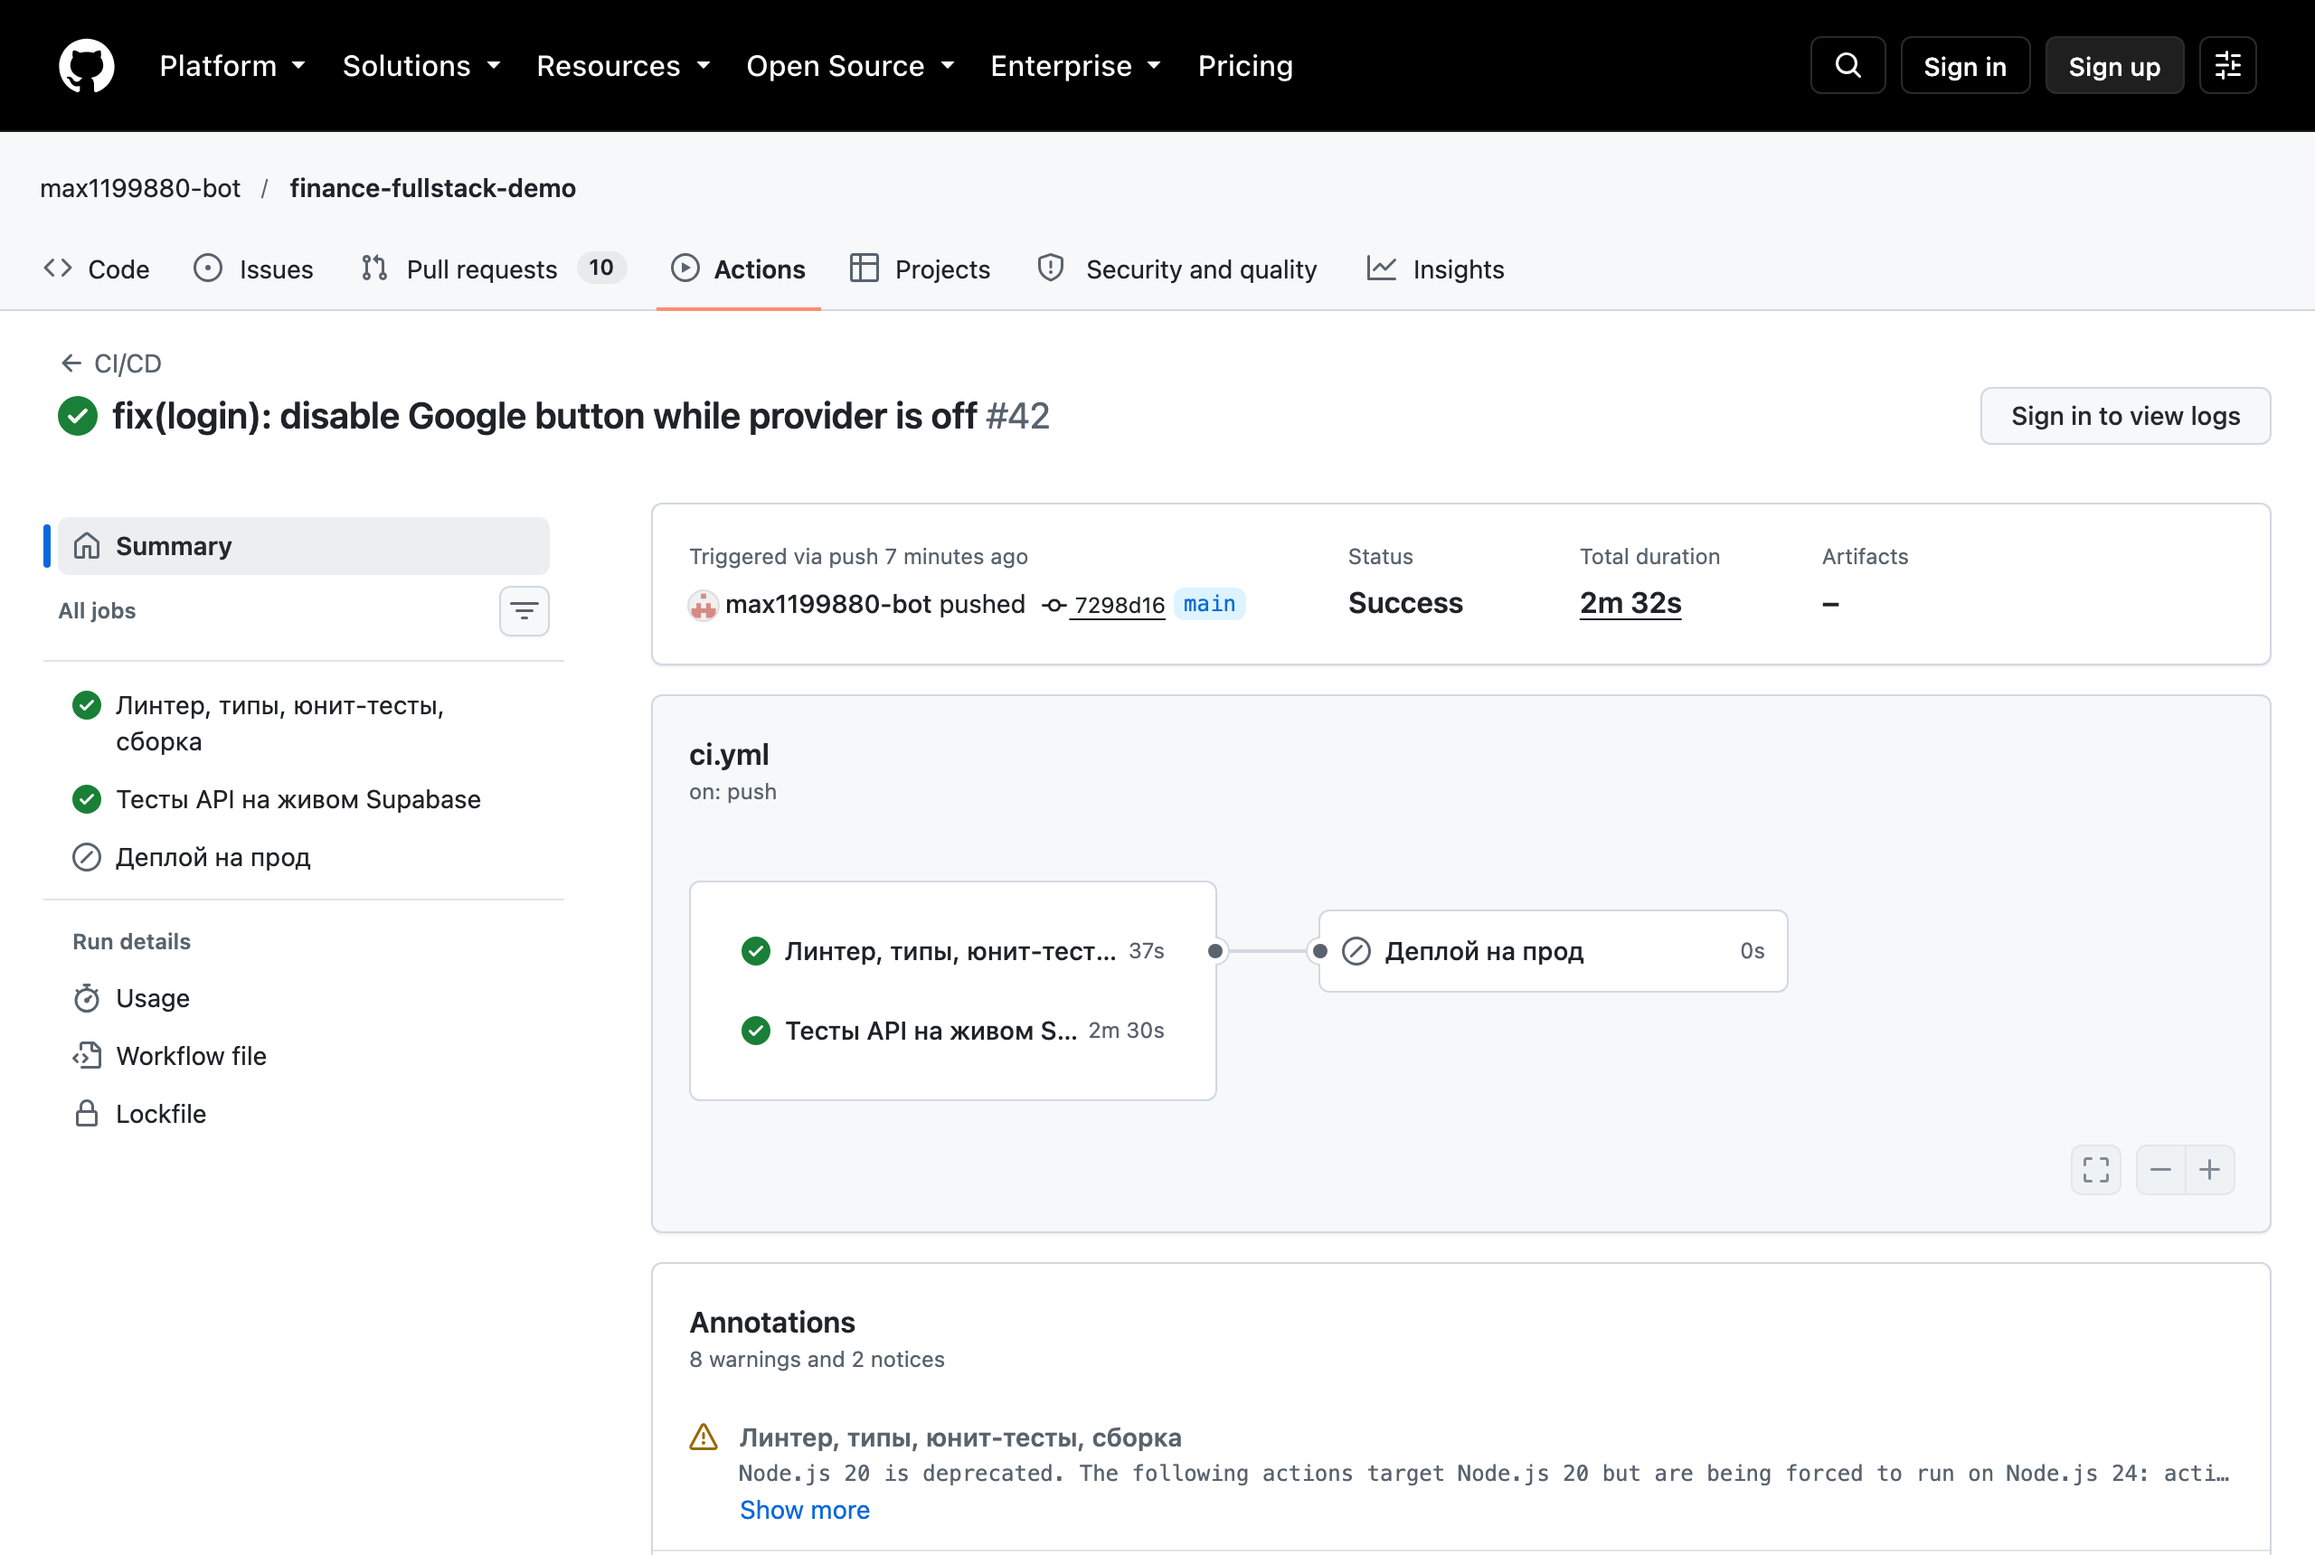
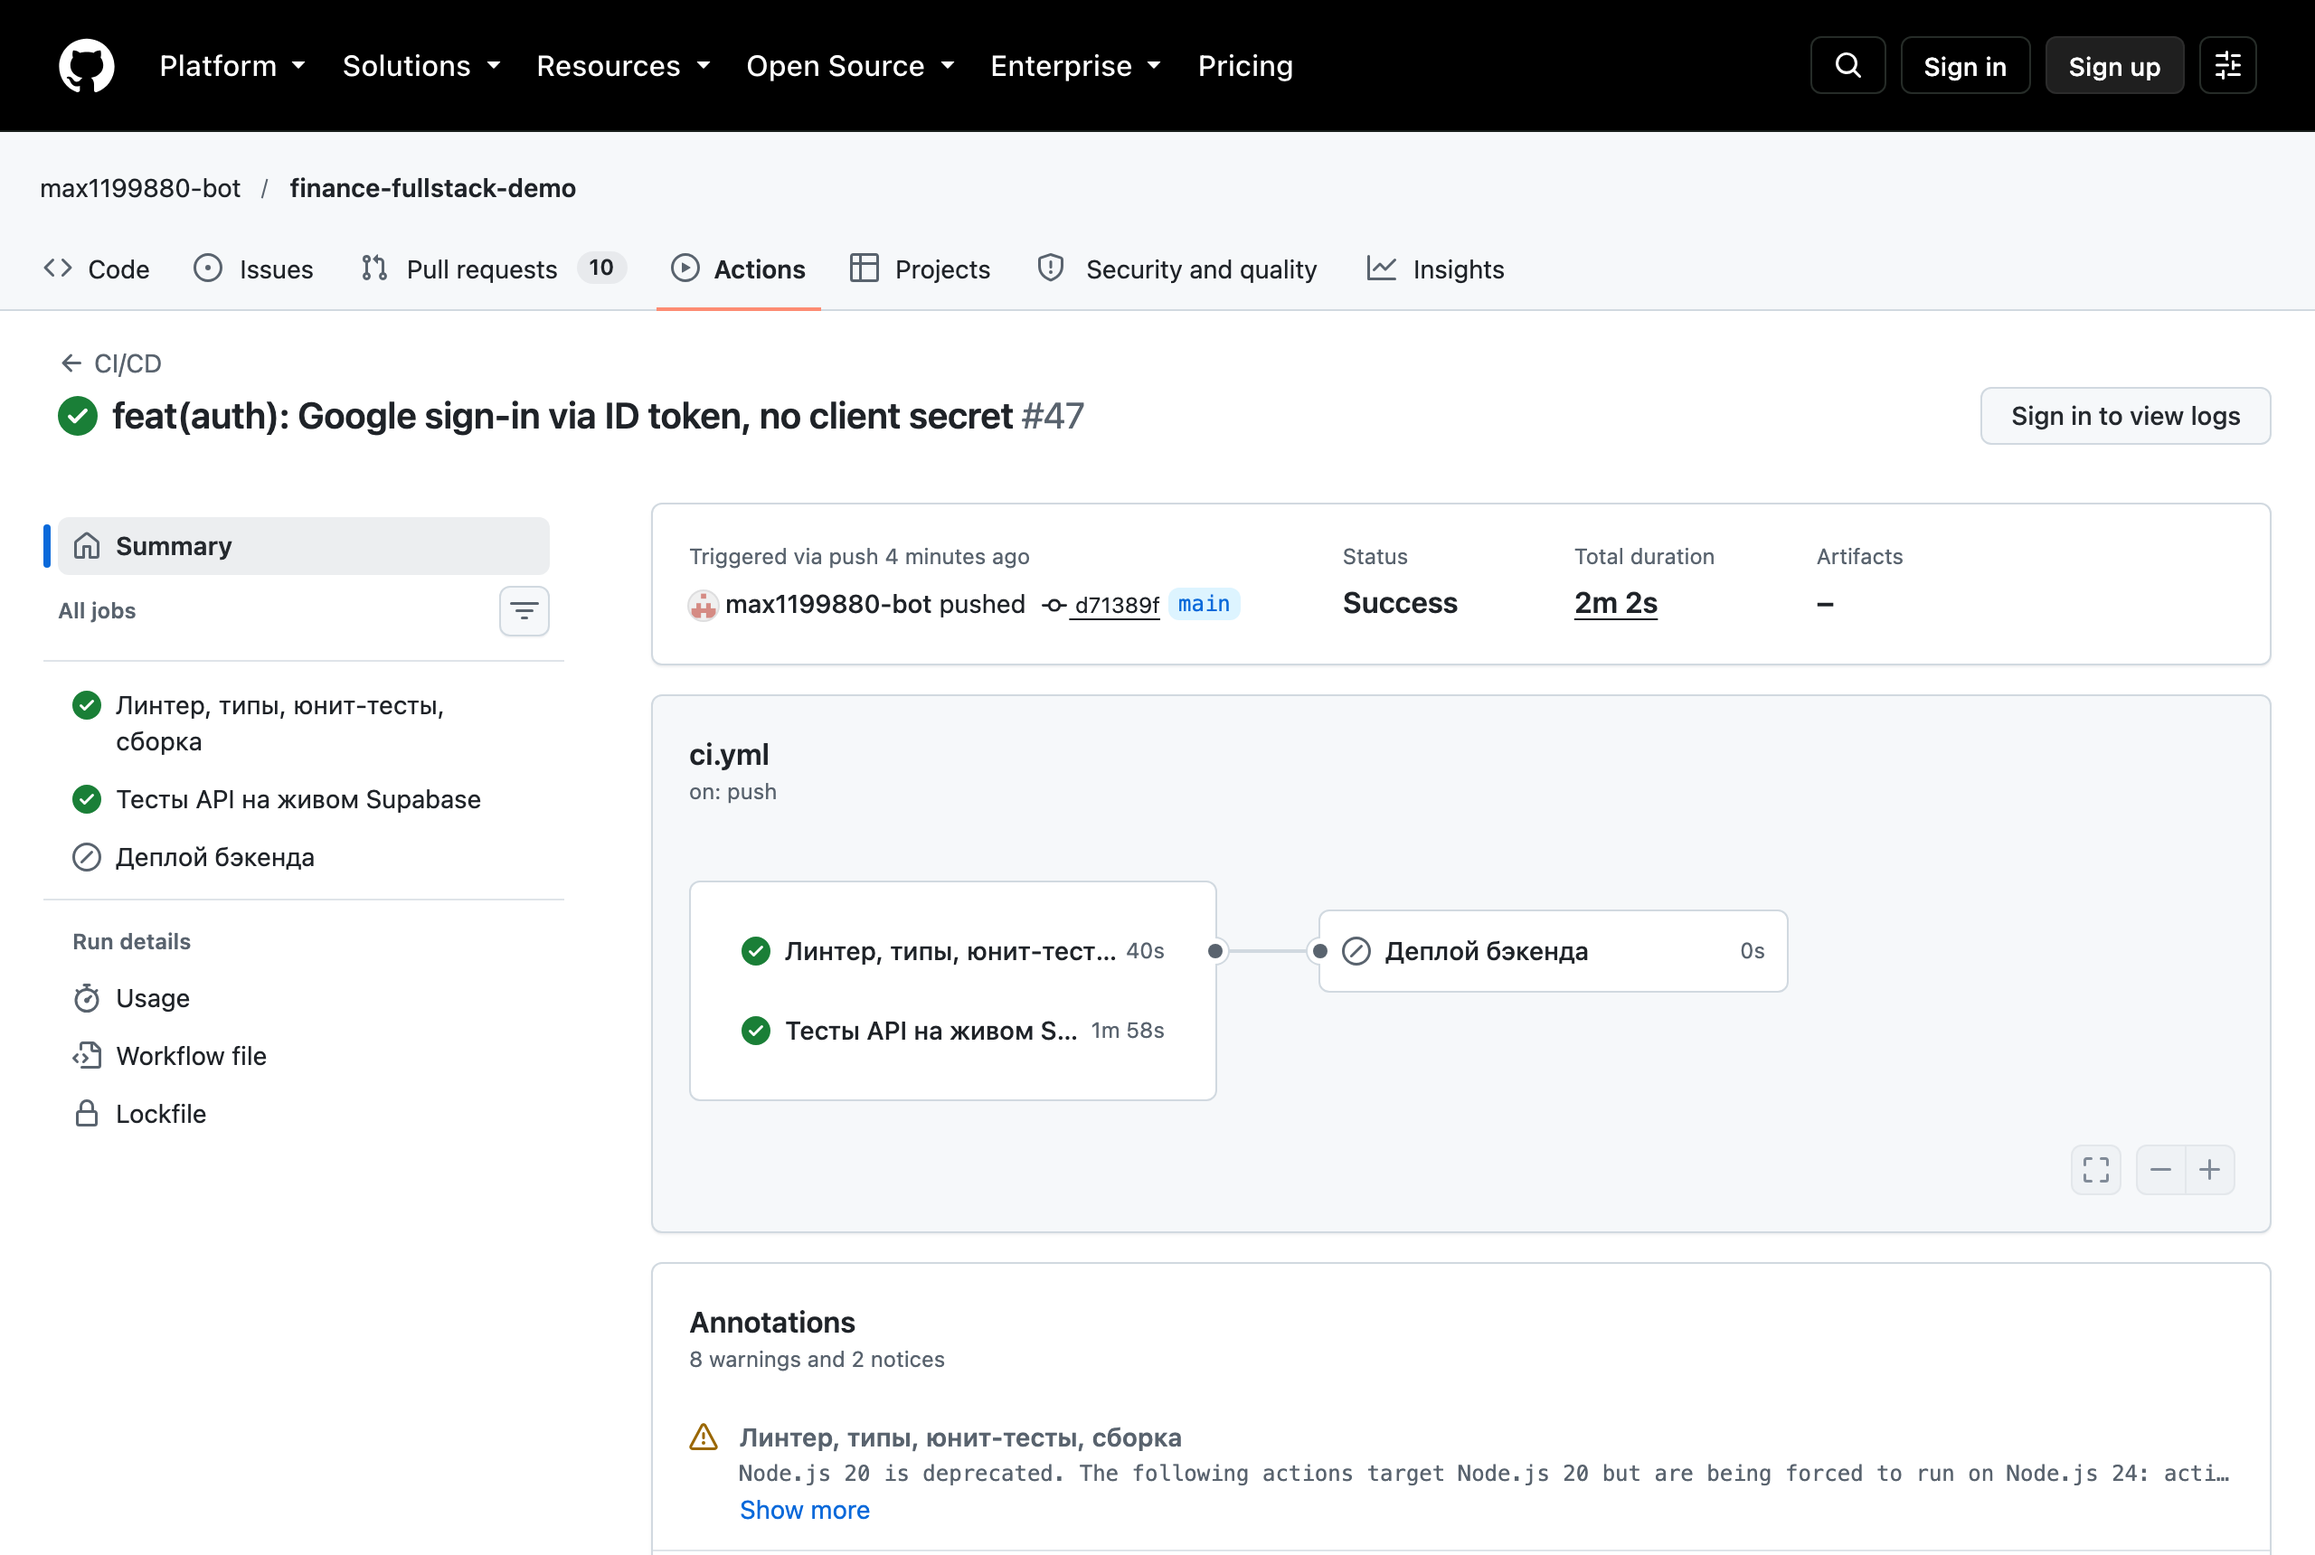
docs(dz6): gated Vercel deploy, Google ID-token sign-in, fresh screenshots

diff --git a/security_audit.md b/security_audit.md
@@ -157,8 +157,11 @@ Query, и он стирается при выходе (F-2).
 **Было.** Git-интеграция Vercel деплоила каждый пуш в `main` сама, не дожидаясь тестов.
 Подтверждено по журналу деплоев GitHub.
 
-**Исправлено.** `vercel.json` → `git.deploymentEnabled: false`. Единственный путь на прод —
-джоба `deploy`, которая ждёт и линтер, и тесты API.
+**Исправлено.** Vercel собирает только `main` и только после зелёного workflow CI/CD этого
+коммита: перед сборкой `scripts/vercel-wait-ci.mjs` ждёт статус в GitHub, при любой неясности
+выкладка пропускается. Workflow включает линтер, тесты API и деплой бэкенда.
+Первая версия исправления выключала git-выкладку совсем и выкладывала фронтенд из CI токеном
+Vercel. Нынешняя закрывает ту же дыру без токена Vercel в GitHub.
 
 #### F-9 · A08 / CWE-829 · прод-токены рядом с незакреплёнными инструментами
 
@@ -251,7 +254,7 @@ Query, и он стирается при выходе (F-2).
 | **Кликджекинг** | `frame-ancestors 'none'`, `X-Frame-Options: DENY` | `vercel.json` |
 | **Доступ к чужим данным** | RLS на всех таблицах, API ходит в базу токеном пользователя, ссылки на чужие строки запрещены | миграции `rls`, `security_hardening` |
 | **Подбор пароля** | Пароль от 8 символов с цифрами; лимиты частоты Supabase Auth | `config.toml` |
-| **Перехват токена при входе через Google** | PKCE: в адресе одноразовый код, бесполезный без секрета из этого браузера | `src/lib/supabase.ts` |
+| **Подмена или повтор токена Google** | ID-токен проверяет Supabase Auth: подпись Google, адресат = наш Client ID, nonce из этого браузера. Client Secret не используется — утечь нечему | `src/lib/googleIdentity.ts`, `config.toml` |
 | **Утечка секретов** | Секретов нет в репозитории, истории, сборке и архиве (проверено); gitleaks в CI | `security.yml` |
 | **Компрометация пайплайна** | Закрепление по SHA, секреты по шагам, окружение только для `main` | `ci.yml` |
 

diff --git a/README.md b/README.md
@@ -34,7 +34,7 @@
 | Вход | Supabase Auth: почта и пароль, токены обновляются сами |
 | Тесты | Vitest: 63 интеграционных против живого бэкенда (из них 16 — регрессии по аудиту) + 55 на экраны |
 | CI/CD | GitHub Actions: линтер, типы, тесты, Supabase в контейнере, деплой из main, мониторинг каждые 15 минут |
-| Интеграции | Вход через Google (OAuth2 + PKCE) · Google Analytics 4 без персональных данных |
+| Интеграции | Вход через Google (ID-токен, OpenID Connect) · Google Analytics 4 без персональных данных |
 
 ## Запуск
 
@@ -56,7 +56,7 @@ npm run dev
 |---|---|
 | `npm run dev` | Дев-сервер фронтенда |
 | `npm run build` | Проверка типов и сборка в `dist/` |
-| `npm test` | 55 тестов: экраны и демо-сервер (Vitest + Testing Library) |
+| `npm test` | 60 тестов: экраны, демо-сервер, события аналитики, nonce входа Google (Vitest + Testing Library) |
 | `npm run test:api` | 63 интеграционных теста API против локального Supabase |
 | `npm run lint` · `npm run format:check` | ESLint и Prettier — те же проверки, что в CI |
 | `node scripts/analyze-logs.mjs --local` | Разбор логов API через AI (см. документацию) |
